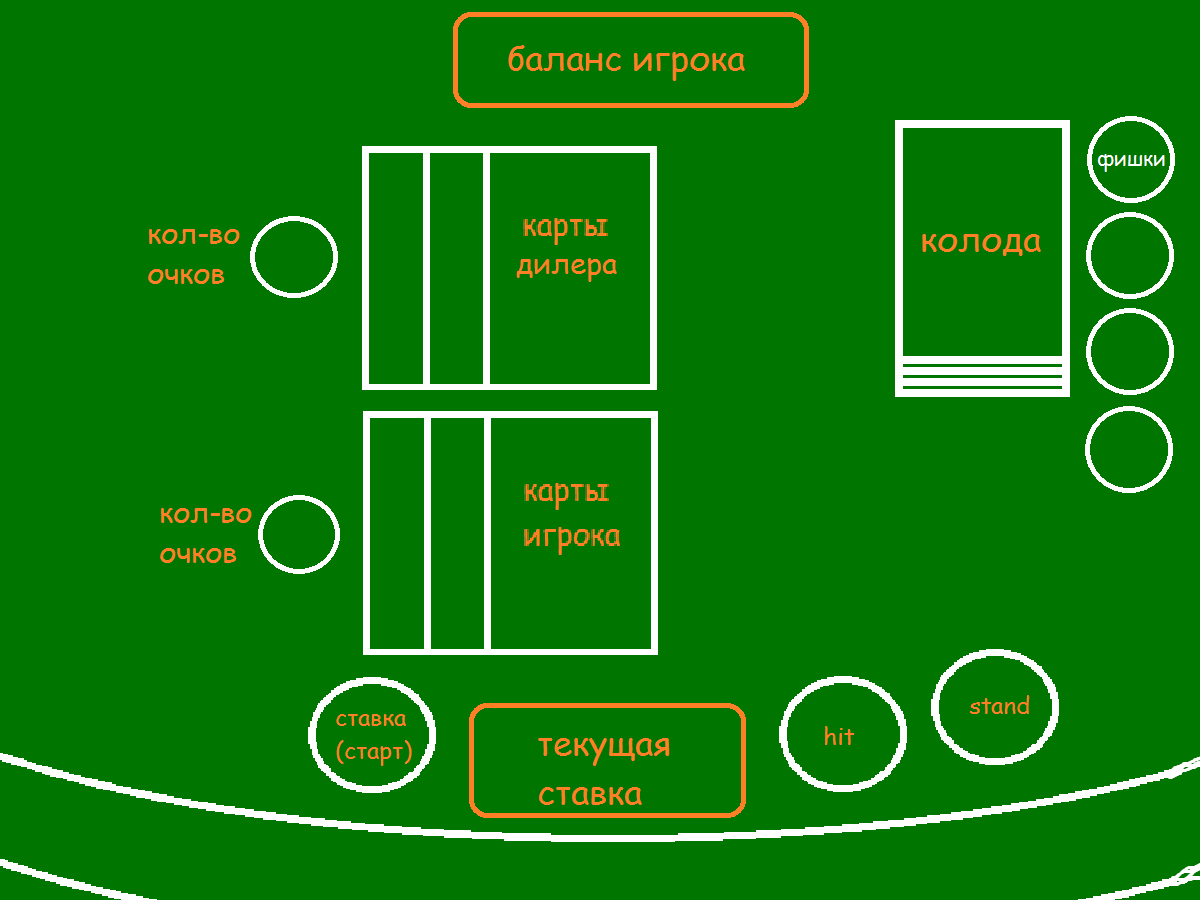
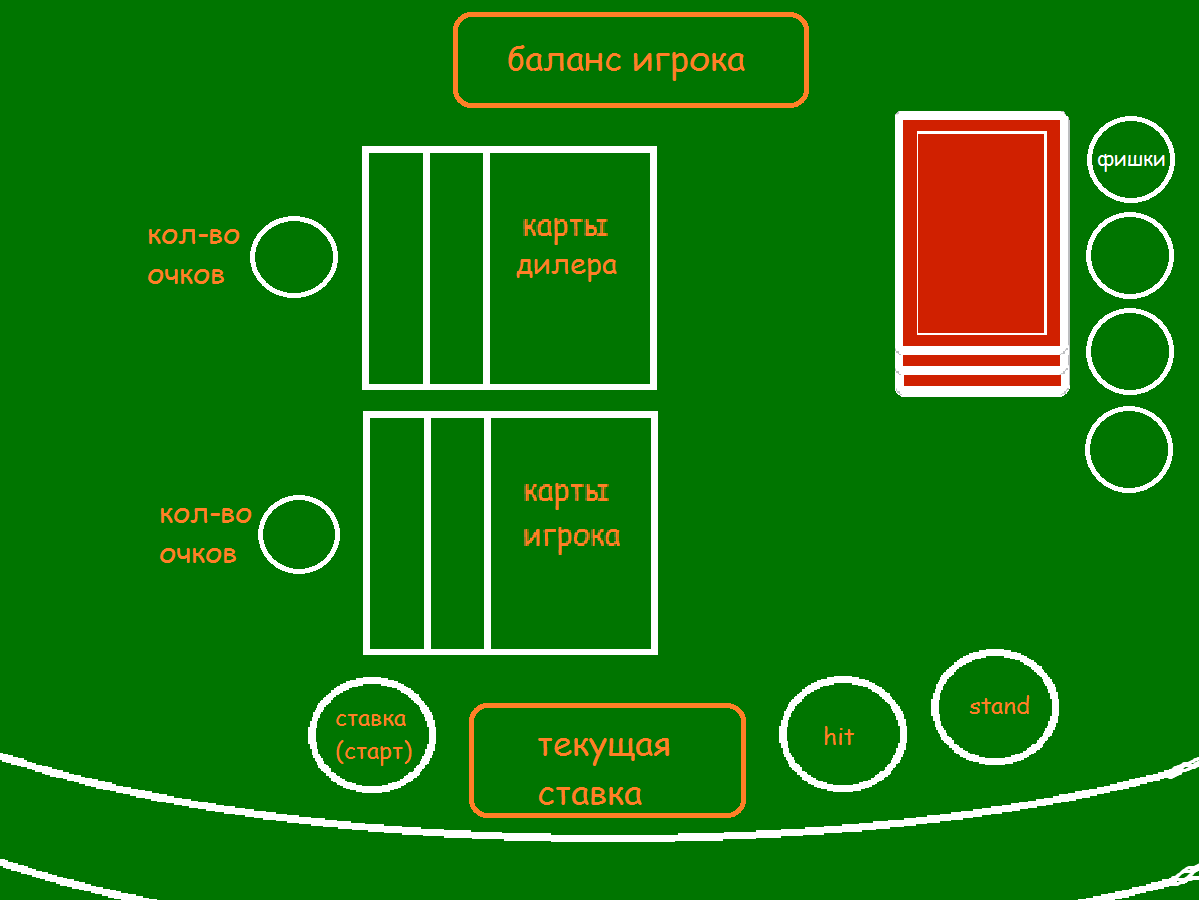
maybe_main.py

diff --git a/maybe_main.py b/maybe_main.py
@@ -75,6 +75,8 @@ class Main(Sprite):
         ButtonsOnMain('50chip.png', 1085, 203)
         ButtonsOnMain('100chip.png', 1085, 303)
         ButtonsOnMain('500chip.png', 1085, 403)
+        ButtonsOnMain('deal_btn.png', 325, 675)
+        ButtonsOnMain('card_back.png', 895, 102)
 
 
 class ButtonsOnMain(Sprite):
@@ -83,6 +85,12 @@ class ButtonsOnMain(Sprite):
         self.image = load_image(photo)
         self.rect = self.image.get_rect().move(pos_x, pos_y)
 
+
+def click(x, y):
+    if 325 <= x <= 444 and 675 <= y <= 794:
+        Play()
+
+        
 pygame.init()
 screen_size = (1200, 800)
 screen = pygame.display.set_mode(screen_size)
@@ -109,6 +117,8 @@ while running:
     for event in pygame.event.get():
         if event.type == pygame.QUIT:
             running = False
+        if event.type == pygame.MOUSEBUTTONDOWN:
+            click(*event.pos)
     sprite_group.draw(screen)
     button_group.draw(screen)
     clock.tick(FPS)
